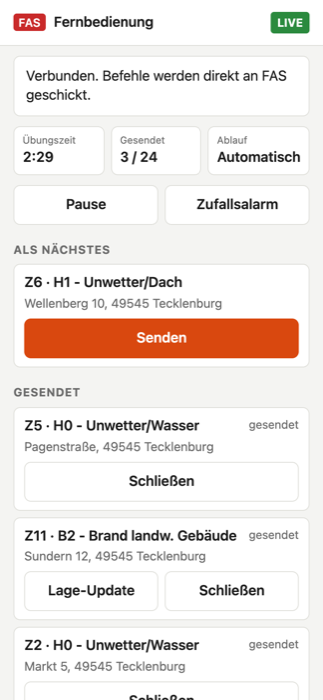
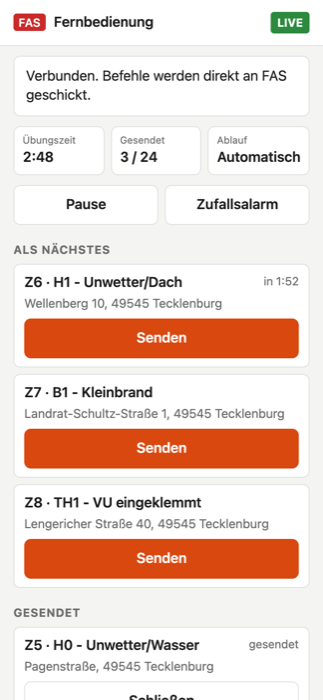
README aktualisiert

Changed region(s): [[0.031, 0.54, 0.9288, 0.96], [0.805, 0.39, 0.9288, 0.42], [0.0929, 0.21, 0.1548, 0.24]]

diff --git a/remote/version.js b/remote/version.js
@@ -1,2 +1,2 @@
 // Version of the control page, set when publishing.
-export const PAGE_VERSION = "1.4.1-beta.2";
+export const PAGE_VERSION = "dev-6078340";

diff --git a/README.md b/README.md
@@ -247,10 +247,40 @@ pausieren – von überall, wo das Handy Internet hat. Eine App ist nicht nötig
 3. Am Laptop erscheint dieselbe Zahl groß in einem Rahmen. Stimmen beide
    überein, am Laptop `J` drücken (sonst `N`).
 
+<img src="docs/images/handy-koppeln.png" alt="Handy wartet auf Freigabe und zeigt den Code 7631" width="300">
+
 Fertig – das Handy zeigt jetzt die nächsten Einsätze mit Countdown und die
-gesendeten. Im Live-Betrieb muss jedes Senden am Handy **zweimal** angetippt
-werden („Wirklich?“), damit nichts aus Versehen rausgeht. Alles, was per Handy
-passiert, steht im Protokoll mit dem Vermerk „per Handy“.
+gesendeten. Alles, was per Handy passiert, steht im Protokoll mit dem Vermerk
+„per Handy“.
+
+**Was die Fernbedienung zeigt:**
+
+<table>
+<tr>
+<td width="33%" valign="top"><img src="docs/images/handy-bestaetigen.png" alt="Senden-Knopf zeigt Wirklich?"></td>
+<td width="33%" valign="top"><img src="docs/images/handy-uebertragen.png" alt="Pause-Knopf zeigt Wird übertragen"></td>
+<td width="33%" valign="top"><img src="docs/images/handy-pause.png" alt="Übung pausiert, unten die Versionen"></td>
+</tr>
+<tr>
+<td valign="top"><b>Zweimal tippen.</b> Im Live-Betrieb wird aus „Senden“ nach dem ersten Tippen ein roter Knopf „Wirklich?“. Erst das zweite Tippen schickt den Alarm – so geht nichts aus Versehen raus.</td>
+<td valign="top"><b>Wird übertragen.</b> Bis der Laptop den Befehl bestätigt, dreht sich ein Kreis im Knopf. Das kann ein paar Sekunden dauern – bitte nicht mehrfach tippen.</td>
+<td valign="top"><b>Pausiert.</b> Oben steht „Pausiert“, der Knopf heißt jetzt „Fortsetzen“. Ganz unten stehen die Versionen von Steuerseite und FAS.</td>
+</tr>
+</table>
+
+Die Knöpfe im Überblick:
+
+| Knopf | Was passiert |
+|---|---|
+| **Senden** | Schickt den Alarm sofort, auch vor seiner geplanten Zeit. |
+| **Pause / Fortsetzen** | Hält den automatischen Ablauf an bzw. lässt ihn weiterlaufen. |
+| **Zufallsalarm** | Schickt einen zufälligen Alarm (nur, wenn die Liste Zufallsdaten hat). |
+| **Lage-Update** | Schickt die Lageänderung zu einem gesendeten Einsatz. |
+| **Schließen** | Schließt den Einsatz in Fireboard. |
+
+Sieht das Handy nach einem Update von FAS nicht alle Knöpfe, oder erscheint
+„Bitte die Seite neu laden“: die Seite im Browser neu laden oder den QR-Code
+noch einmal scannen.
 
 Mit `h` blendest du den QR-Code wieder aus, mit `x` (während er angezeigt wird)
 beendest du die Fernbedienung – verbundene Handys haben dann keinen Zugriff
